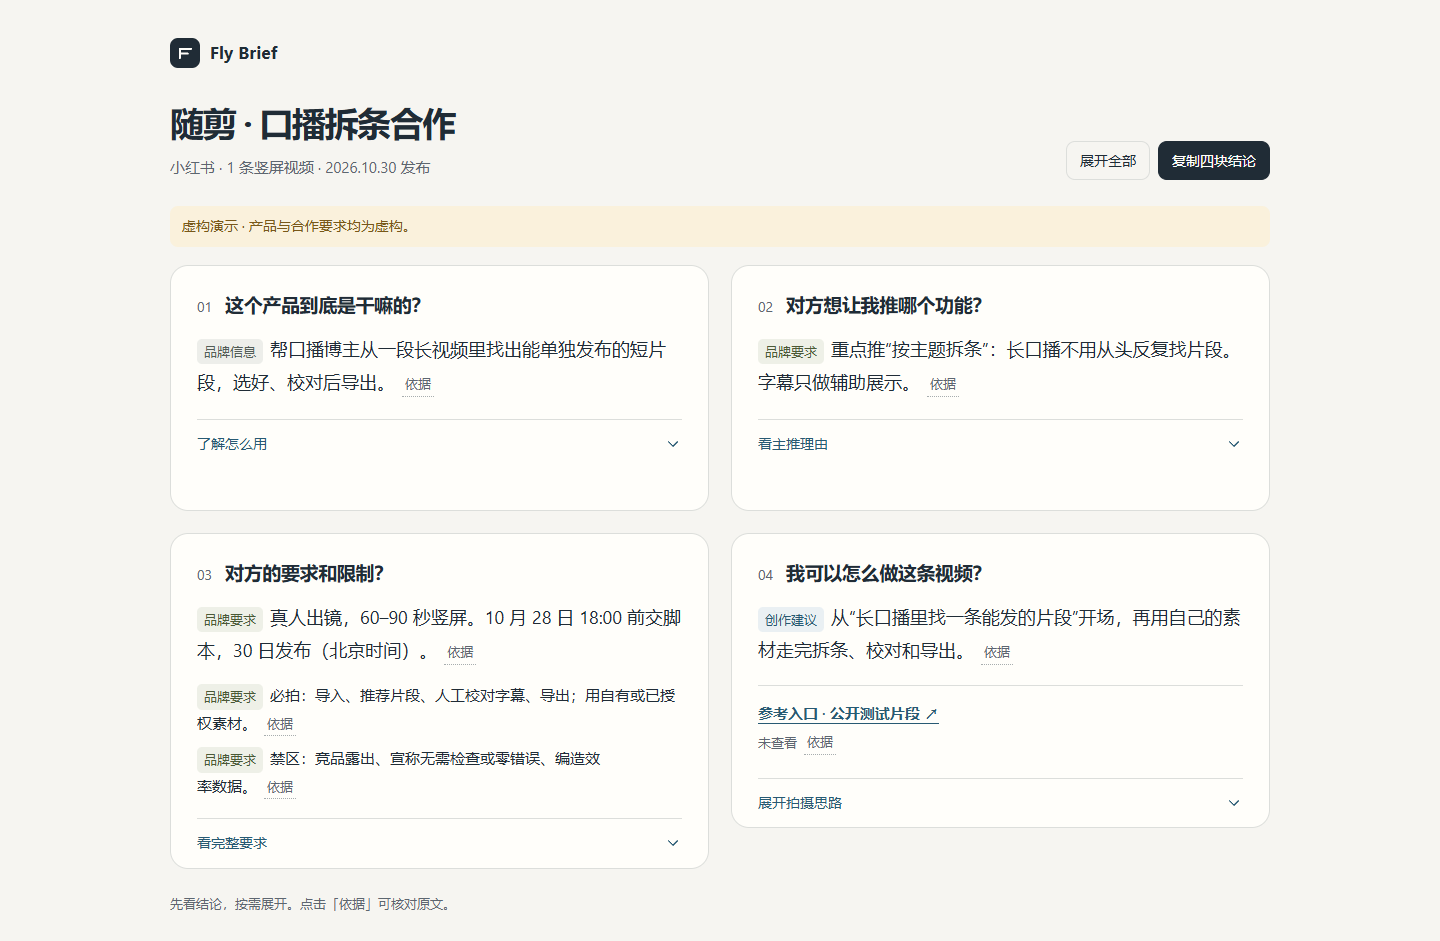
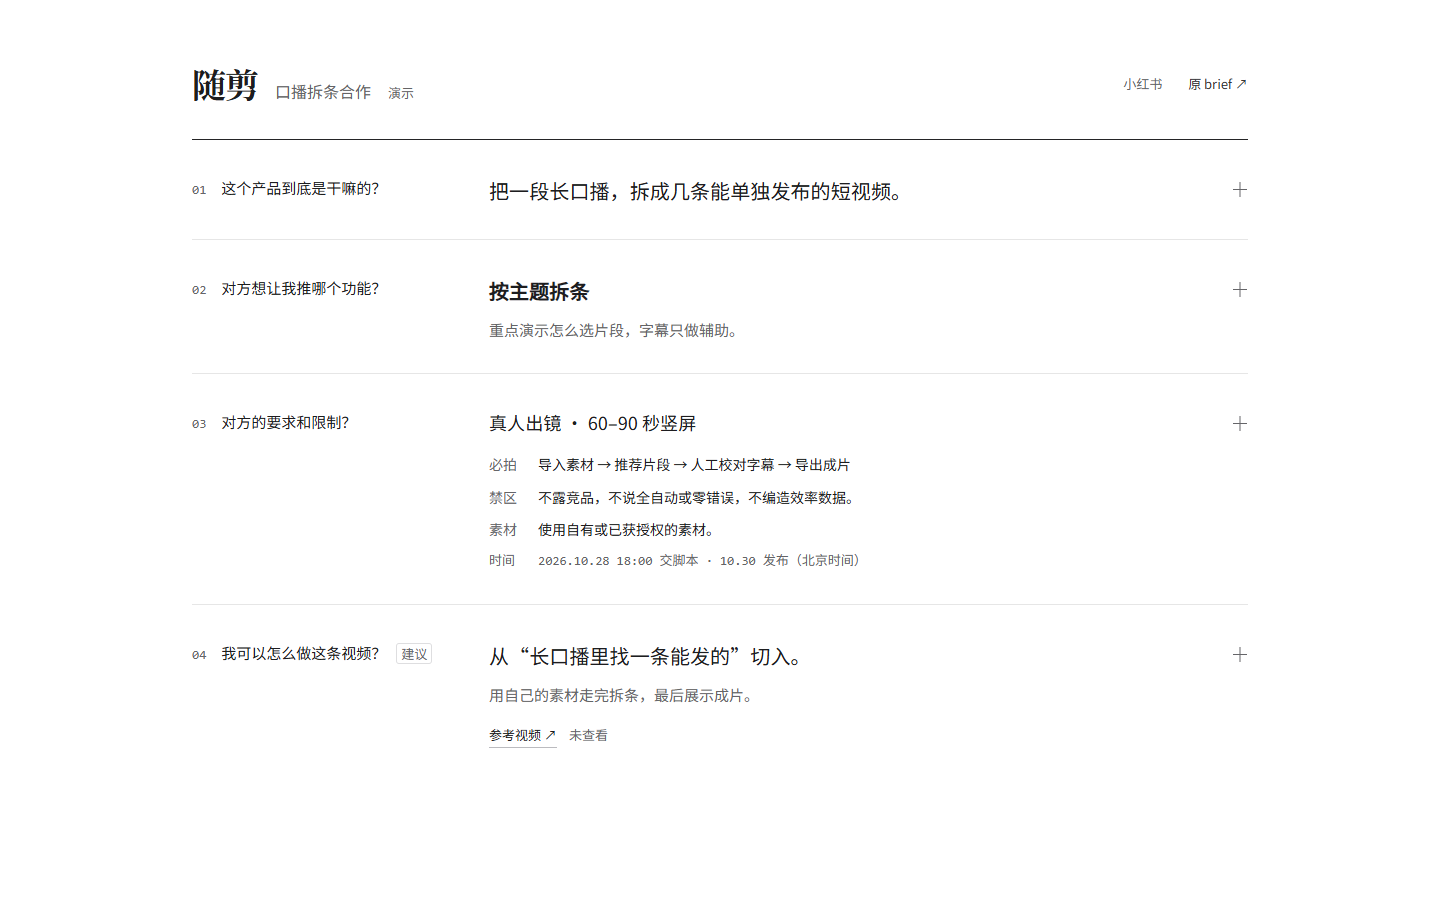
完善白纸模板与验收预览

diff --git a/DESIGN.md b/DESIGN.md
@@ -6,22 +6,22 @@ North star: 打开能复述合作，展开能开始构思视频。
 
 用户选择：`01：选 01 白纸文档`。以 `design-exploration/01/01-document.html` 为正式模板的视觉基线。下文首版卡片布局及其评分为历史记录，不作为后续设计依据。真实 brief 测试继续延后。
 
-当前固定要求：只呈现四个核心问题及其内容；不在正文放工具口号、使用教程、制作说明或重复的身份标签。来源、详情和必要状态以后通过固定模板中的轻量入口承载。演示数据的虚构性质在对比页与交付说明中明确，不占候选正文。
+当前固定要求：只呈现四个核心问题及其内容；不在正文放工具口号、使用教程、制作说明或重复的身份标签。来源、详情和必要状态通过固定模板中的轻量入口承载。演示数据以页头一个短标记及材料出处注明虚构性质。
 
 实施约束：纯白底、单列四行、左问题右答案、右端加号展开；桌面保留选定方向的 1056 px 阅读宽度和排版尺度，窄屏自然堆叠问题与答案。原文入口集中在页头，具体出处放在展开内容中。不恢复首版的品牌行、复制／全部展开工具条、页尾教程和彩色身份标签。固定模板由生成器填充，agent 不为每份 brief 改结构。
 
 - A creator's private reading tool, not a dashboard or marketing page. The four questions are always the top-level navigation and content structure.
-- Quiet ivory background, dark ink, one muted blue accent, and a readable Chinese system font. Color differentiates evidence types only where it aids interpretation.
-- Use a compact 2 × 2 desktop overview with independently expanding panels; narrow screens use a single column. Open content should flow naturally, never inside a nested scroll box. Preserve other summaries when a panel expands.
-- On narrow screens start with the cooperation title; omit the separate brand row and keep controls and any demonstration notice compact. Source buttons stay attached to the last few characters so they do not become isolated lines.
+- Pure white document, black text, gray secondary text and thin structural rules. No panel containers, tinted page background or brand masthead. The selected preview in `design-exploration/01/01-document.html` is the visual baseline.
+- Four document rows with left-aligned questions and answers; 1056 px reading width on desktop. Each plus independently opens details under its answer. Narrow screens stack question and answer. Reading follows the document; there is no nested reading scrollbar.
+- Header contains only product/title, optional cooperation subtitle, compact known context and the original-brief entry. Fictional samples have one short `演示` marker. No toolbar or tutorial footer. Sources are in the header and expanded details, not appended repeatedly to default summaries.
 - Default content is short. Critical obligations cannot be collapsed, truncated or hidden in tooltips to fit a viewport. Reference video links belong in the fourth panel's default view.
-- Show source excerpts on demand in a native dialog with keyboard close and focus return. No remote libraries, thumbnails, fonts or analytics; the HTML can be opened directly.
-- Three restrained interaction cues: button press feedback, disclosure-arrow rotation, and source-dialog entrance. Respect reduced-motion settings. Reading never waits for an entrance animation.
+- Show source excerpts on demand in a native dialog with keyboard close and focus return. Noto Sans SC and Noto Serif SC are embedded from local, licensed WOFF2 assets. Opening the standalone report requires no remote libraries, images, fonts or analytics.
+- Three restrained interaction cues: button press feedback, plus-to-minus transition and source-dialog entrance. Respect reduced-motion settings. Reading never waits for an entrance animation.
 - No additional summary module, invented brand claims, decorative charts, canvas panning, autoplay video, editing controls or backend.
 
 Development sample content must be explicitly identified as fictional. Client output has no developer notes. QA evidence and results are recorded after implementation.
 
-## Verification · 2026-10-24
+## Historical verification · initial card layout
 
 - Skill structure validation passed, both in this repository and through the installed `fly-brief` directory junction. The installation points to this repository, so future Git-tracked fixes use the same source.
 - Generator: 9 Python unit tests passed. Coverage includes missing sections, missing/invalid sources, duplicate IDs, malformed content, unsafe URLs, unviewed-reference claims, relative paths, preservation of long requirement lists, script escaping and protection against overwriting source files.
@@ -33,3 +33,14 @@ Development sample content must be explicitly identified as fictional. Client ou
 Tracked previews: `examples/preview-desktop.png`, `examples/preview-mobile.png`, `examples/preview-source.png`. Full local QA evidence, recordings and machine-readable results are under `.qa/final/` and `.qa/browser-final/` (ignored development artifacts).
 
 To repeat generator checks: `python -m unittest discover -s tests -v`. To repeat optional browser checks with Playwright available in the host's module search path: `node tests/check_browser.cjs --browser-channel msedge`. Report generation itself only needs Python's standard library; Playwright and the skill validator's PyYAML are development dependencies.
+
+## White-document implementation · 2026-10-24
+
+- Fixed template selected by the user and connected to `scripts/render_report.py`. Added optional subtitle, section note and short highlight labels while keeping version-1 reports compatible. Kind/source data are retained without repeating fact/requirement identity labels in the default view.
+- The agent fills JSON only. Skill instructions prohibit per-brief styling, extra introductory modules, brand mastheads, help paragraphs and the discarded copy/expand-all toolbar. Sources have one global entry and precise citations in expanded content.
+- Default fixture now uses the selected candidate's concise wording. Complete obligations remain in the requirements row or its detail branches. A requirement for owned/authorized footage and full date/time context is explicit; the external reference remains marked unviewed.
+- 12 generator tests passed. The 13 browser checks passed in three consecutive runs and again after final phone-layout polish. Coverage includes actual offline font loading, four visible desktop answers, independent disclosures with mouse/keyboard, exact source passages and focus restoration, reference navigation, 320/390/768 px layouts, reduced motion, print-state restoration, sparse data, long names, uncommon Chinese and inert untrusted markup.
+- The preview is still fictional. Reference navigation was intercepted locally during testing; no claim is made about having watched the sample video or tested a real brand brief. Runtime dependencies remain Python's standard library only.
+- Independent visual review: 8 → 9 out of 10 over two rounds. Improved short phone line endings, kept time-zone text intact, aligned inline citations and removed the redundant pending label under an already-explicit confirmation heading. Scores apply to static appearance; interaction behavior was checked separately. The only remaining observation was minor citation-to-sentence spacing, with no new functional or visual issue; the review stopping criterion was met.
+- Final default/expanded screenshots: `.qa/document-review-2/`; final browser results and source-dialog screenshots: `.qa/document-polished-browser/`. Earlier full evidence and motion recordings remain in `.qa/document-final/`. All final screenshots have no console errors, horizontal overflow, failed images or readability lint findings. Motion-probe warnings about absent entrance and scroll effects are intentionally retained for immediate reading.
+- Updated tracked previews are `examples/preview-desktop.png`, `examples/preview-mobile.png` and `examples/preview-source.png`. The standalone current report is `examples/report.html`. The installed skill directory junction continues to use this same Git-tracked implementation.
